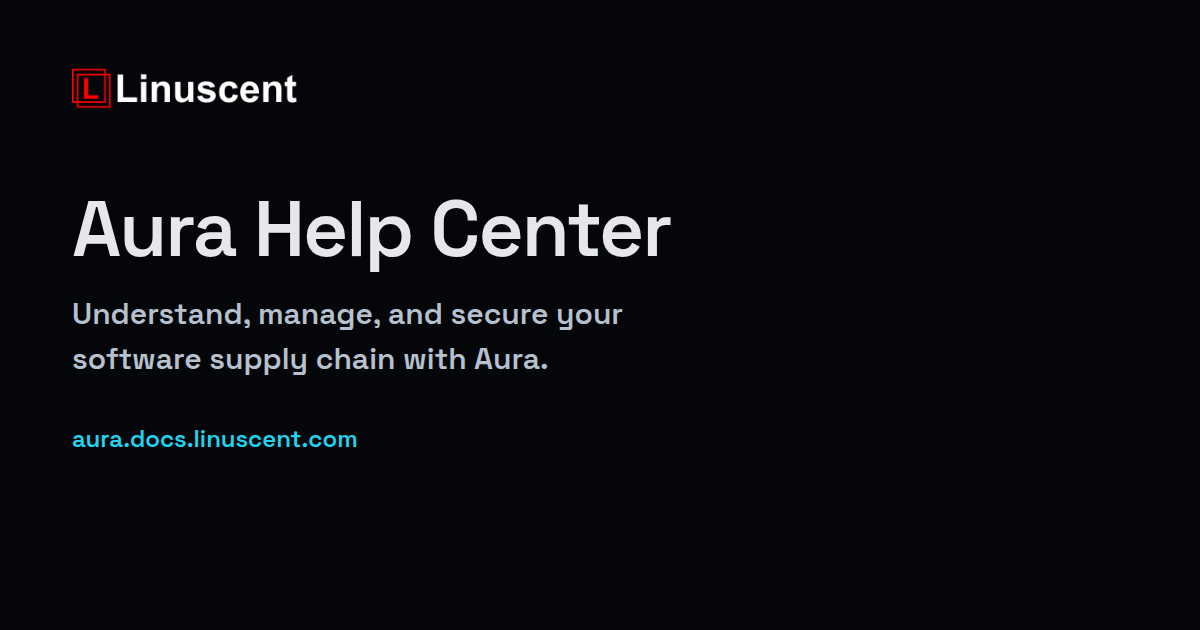
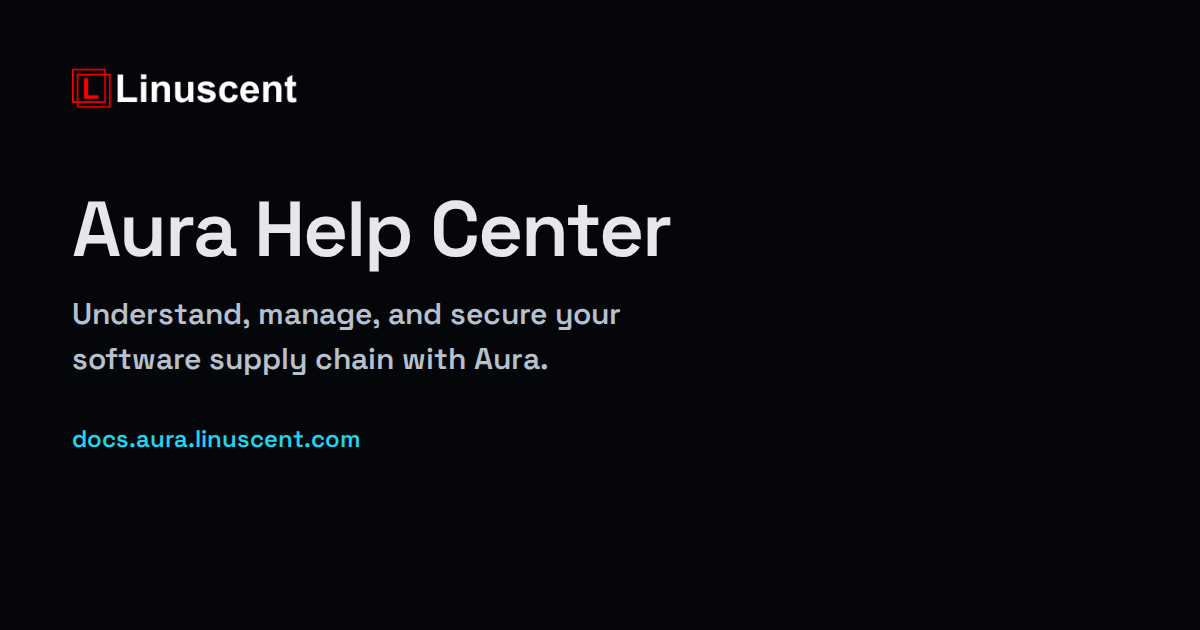
fix(docs): correct documentation domain

diff --git a/README.md b/README.md
@@ -41,7 +41,7 @@ npm run check    # run astro check
 
 Use Node.js 24 (also used in CI). Open the local site at
 <http://localhost:4321/>. The production site is deployed to
-<https://aura.docs.linuscent.com/> by `.github/workflows/deploy.yml`.
+<https://docs.aura.linuscent.com/> by `.github/workflows/deploy.yml`.
 The site is served from `/`, with the GitHub Pages custom domain recorded in
 `public/CNAME`. Configure the same domain in the repository's Pages settings
 and point its DNS record at `linuscent.github.io`.
@@ -111,9 +111,9 @@ dimensions, sitemap coverage, crawl directives, alt attributes, and local links
 and fragments. This also gates PR builds and deployment builds. Run the checker
 separately only after building `dist/`.
 
-After deployment, the site owner must verify `aura.docs.linuscent.com` in Google
+After deployment, the site owner must verify `docs.aura.linuscent.com` in Google
 Search Console and Bing Webmaster Tools and submit
-`https://aura.docs.linuscent.com/sitemap-index.xml`. DNS, HTTPS, production status
+`https://docs.aura.linuscent.com/sitemap-index.xml`. DNS, HTTPS, production status
 codes, field Core Web Vitals, indexing, and rankings need live monitoring; a local
 build cannot establish them. New `noindex` pages must also be excluded from the
 sitemap—the checker intentionally rejects mismatches.
@@ -137,7 +137,7 @@ stdio servers (Node.js and npm are required):
       "args": [
         "-y",
         "@stellayazilim/mcp-starlight@0.2.1",
-        "https://aura.docs.linuscent.com"
+        "https://docs.aura.linuscent.com"
       ]
     }
   }

diff --git a/PRODUCT.md b/PRODUCT.md
@@ -20,7 +20,7 @@ readers find a relevant guide and understand how to complete their task.
 
 ## Capabilities and Constraints
 
-- Static Astro and Starlight site at `https://aura.docs.linuscent.com/`.
+- Static Astro and Starlight site at `https://docs.aura.linuscent.com/`.
 - Preserve the existing article content, URLs, search, sidebar, table of
   contents, theme selection, and mobile navigation.
 - Keep Product terminology and distinguish findings from risk decisions.

diff --git a/AGENTS.md b/AGENTS.md
@@ -3,7 +3,7 @@
 ## Project
 
 Aura Help is a static Astro + Starlight documentation site, deployed to GitHub
-Pages at `https://aura.docs.linuscent.com/`, served from `/`. Use npm and the
+Pages at `https://docs.aura.linuscent.com/`, served from `/`. Use npm and the
 committed `package-lock.json`.
 
 - `src/content/docs/`: canonical Markdown/MDX documentation.
